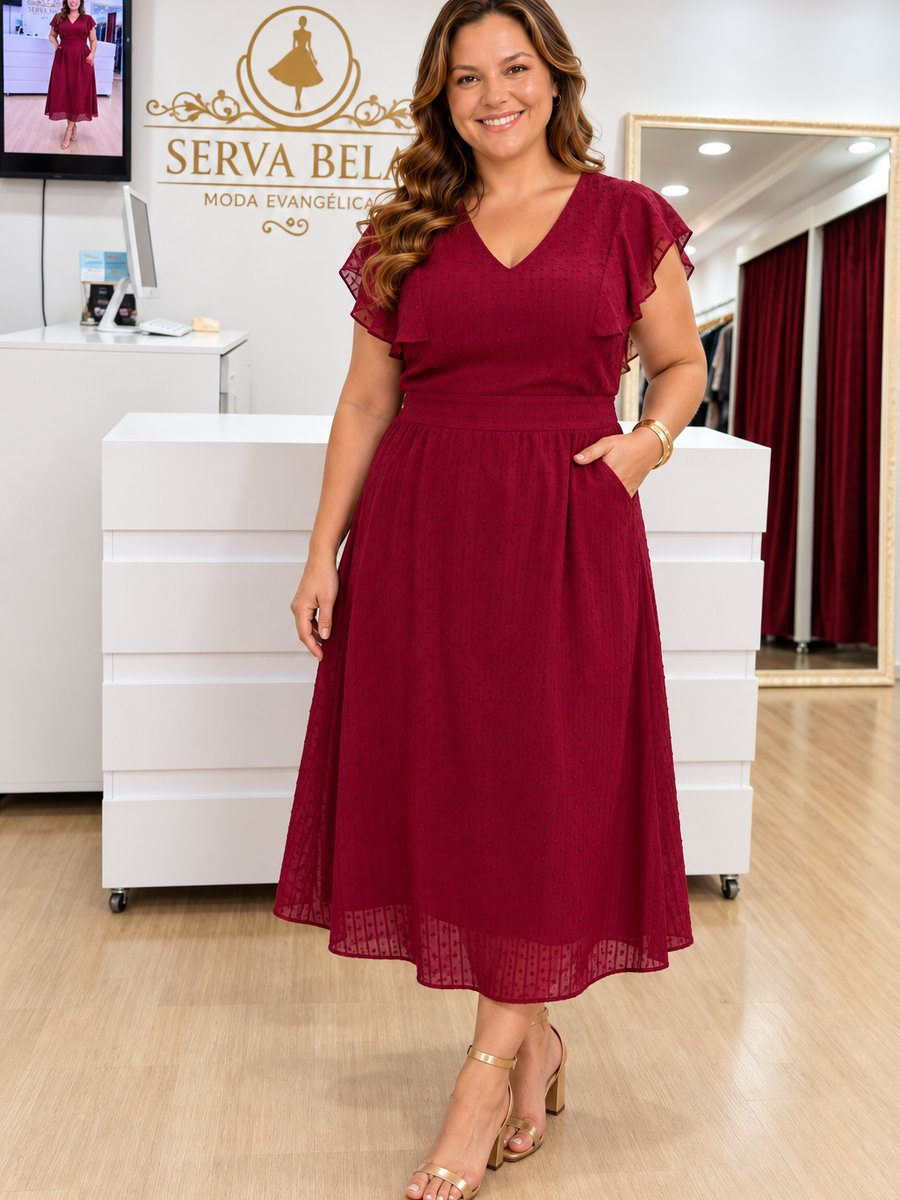
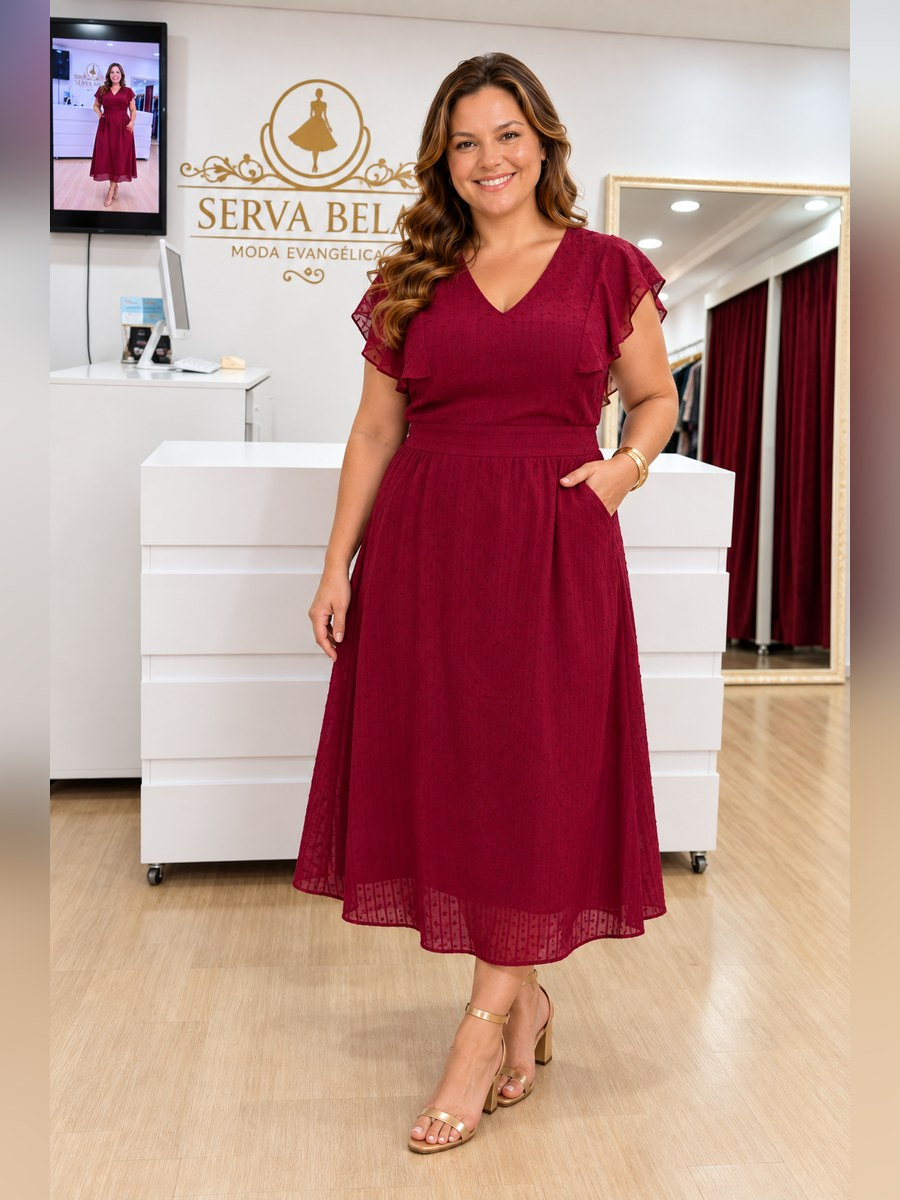
Show full uncropped photos (fit with blurred padding) for all new images
Claude-Session: https://claude.ai/code/session_01QuFj6eBhbFVfzAP6AXL4uV

diff --git a/index.html b/index.html
@@ -352,9 +352,9 @@
       </a>
     </article>
 <article class="card" id="AUR-52" data-cat="vestidos">
-      <div class="photo" data-images="img/v25a.jpg?v=1790786000|img/v25b.jpg?v=1790786000">
-          <img src="img/v25a.jpg?v=1790786000" alt="Vestido de Linho Mid" loading="lazy" onclick="openLightbox(this)">
-          <div class="thumbs"><button type="button" class="on" onclick="event.stopPropagation();swapPhoto(this,'img/v25a.jpg?v=1790786000')"></button><button type="button" class="" onclick="event.stopPropagation();swapPhoto(this,'img/v25b.jpg?v=1790786000')"></button></div>
+      <div class="photo" data-images="img/v25a.jpg?v=1790820000|img/v25b.jpg?v=1790820000">
+          <img src="img/v25a.jpg?v=1790820000" alt="Vestido de Linho Mid" loading="lazy" onclick="openLightbox(this)">
+          <div class="thumbs"><button type="button" class="on" onclick="event.stopPropagation();swapPhoto(this,'img/v25a.jpg?v=1790820000')"></button><button type="button" class="" onclick="event.stopPropagation();swapPhoto(this,'img/v25b.jpg?v=1790820000')"></button></div>
         </div>
       <div class="info">
         <div class="sku">AUR-52</div>
@@ -384,9 +384,9 @@
       </a>
     </article>
 <article class="card" id="AUR-11" data-cat="vestidos">
-      <div class="photo" data-images="img/v16a.jpg?v=1790785000|img/v16b.jpg?v=1790785000">
-          <img src="img/v16a.jpg?v=1790785000" alt="Vestido Mid Bordado" loading="lazy" onclick="openLightbox(this)">
-          <div class="thumbs"><button type="button" class="on" onclick="event.stopPropagation();swapPhoto(this,'img/v16a.jpg?v=1790785000')"></button><button type="button" class="" onclick="event.stopPropagation();swapPhoto(this,'img/v16b.jpg?v=1790785000')"></button></div>
+      <div class="photo" data-images="img/v16a.jpg?v=1790820000|img/v16b.jpg?v=1790820000">
+          <img src="img/v16a.jpg?v=1790820000" alt="Vestido Mid Bordado" loading="lazy" onclick="openLightbox(this)">
+          <div class="thumbs"><button type="button" class="on" onclick="event.stopPropagation();swapPhoto(this,'img/v16a.jpg?v=1790820000')"></button><button type="button" class="" onclick="event.stopPropagation();swapPhoto(this,'img/v16b.jpg?v=1790820000')"></button></div>
         </div>
       <div class="info">
         <div class="sku">AUR-11</div>
@@ -416,9 +416,9 @@
       </a>
     </article>
 <article class="card" id="AUR-51" data-cat="vestidos">
-      <div class="photo" data-images="img/v24a.jpg?v=1790784000|img/v24b.jpg?v=1790784000">
-          <img src="img/v24a.jpg?v=1790784000" alt="Vestido de Linho Poá" loading="lazy" onclick="openLightbox(this)">
-          <div class="thumbs"><button type="button" class="on" onclick="event.stopPropagation();swapPhoto(this,'img/v24a.jpg?v=1790784000')"></button><button type="button" class="" onclick="event.stopPropagation();swapPhoto(this,'img/v24b.jpg?v=1790784000')"></button></div>
+      <div class="photo" data-images="img/v24a.jpg?v=1790820000|img/v24b.jpg?v=1790820000">
+          <img src="img/v24a.jpg?v=1790820000" alt="Vestido de Linho Poá" loading="lazy" onclick="openLightbox(this)">
+          <div class="thumbs"><button type="button" class="on" onclick="event.stopPropagation();swapPhoto(this,'img/v24a.jpg?v=1790820000')"></button><button type="button" class="" onclick="event.stopPropagation();swapPhoto(this,'img/v24b.jpg?v=1790820000')"></button></div>
         </div>
       <div class="info">
         <div class="sku">AUR-51</div>
@@ -448,8 +448,8 @@
       </a>
     </article>
 <article class="card" id="AUR-54" data-cat="vestidos plus">
-      <div class="photo" data-images="img/v27a.jpg?v=1790810000">
-          <img src="img/v27a.jpg?v=1790810000" alt="Vestido de Algodão Mid" loading="lazy" onclick="openLightbox(this)">
+      <div class="photo" data-images="img/v27a.jpg?v=1790820000">
+          <img src="img/v27a.jpg?v=1790820000" alt="Vestido de Algodão Mid" loading="lazy" onclick="openLightbox(this)">
           
         </div>
       <div class="info">
@@ -544,9 +544,9 @@
       </a>
     </article>
 <article class="card" id="AUR-50" data-cat="vestidos">
-      <div class="photo" data-images="img/v23a.jpg?v=1790783000|img/v23b.jpg?v=1790783000">
-          <img src="img/v23a.jpg?v=1790783000" alt="Vestido de Crepe Sensorial" loading="lazy" onclick="openLightbox(this)">
-          <div class="thumbs"><button type="button" class="on" onclick="event.stopPropagation();swapPhoto(this,'img/v23a.jpg?v=1790783000')"></button><button type="button" class="" onclick="event.stopPropagation();swapPhoto(this,'img/v23b.jpg?v=1790783000')"></button></div>
+      <div class="photo" data-images="img/v23a.jpg?v=1790820000|img/v23b.jpg?v=1790820000">
+          <img src="img/v23a.jpg?v=1790820000" alt="Vestido de Crepe Sensorial" loading="lazy" onclick="openLightbox(this)">
+          <div class="thumbs"><button type="button" class="on" onclick="event.stopPropagation();swapPhoto(this,'img/v23a.jpg?v=1790820000')"></button><button type="button" class="" onclick="event.stopPropagation();swapPhoto(this,'img/v23b.jpg?v=1790820000')"></button></div>
         </div>
       <div class="info">
         <div class="sku">AUR-50</div>
@@ -576,9 +576,9 @@
       </a>
     </article>
 <article class="card" id="AUR-47" data-cat="vestidos">
-      <div class="photo" data-images="img/v22a.jpg?v=1790780000|img/v22b.jpg?v=1790780000|img/v22c.jpg?v=1790780000">
-          <img src="img/v22a.jpg?v=1790780000" alt="Vestido de Linho Poá" loading="lazy" onclick="openLightbox(this)">
-          <div class="thumbs"><button type="button" class="on" onclick="event.stopPropagation();swapPhoto(this,'img/v22a.jpg?v=1790780000')"></button><button type="button" class="" onclick="event.stopPropagation();swapPhoto(this,'img/v22b.jpg?v=1790780000')"></button><button type="button" class="" onclick="event.stopPropagation();swapPhoto(this,'img/v22c.jpg?v=1790780000')"></button></div>
+      <div class="photo" data-images="img/v22a.jpg?v=1790820000|img/v22b.jpg?v=1790820000|img/v22c.jpg?v=1790820000">
+          <img src="img/v22a.jpg?v=1790820000" alt="Vestido de Linho Poá" loading="lazy" onclick="openLightbox(this)">
+          <div class="thumbs"><button type="button" class="on" onclick="event.stopPropagation();swapPhoto(this,'img/v22a.jpg?v=1790820000')"></button><button type="button" class="" onclick="event.stopPropagation();swapPhoto(this,'img/v22b.jpg?v=1790820000')"></button><button type="button" class="" onclick="event.stopPropagation();swapPhoto(this,'img/v22c.jpg?v=1790820000')"></button></div>
         </div>
       <div class="info">
         <div class="sku">AUR-47</div>
@@ -592,8 +592,8 @@
       </a>
     </article>
 <article class="card" id="AUR-53" data-cat="vestidos">
-      <div class="photo" data-images="img/v26a.jpg?v=1790787000">
-          <img src="img/v26a.jpg?v=1790787000" alt="Vestido Mid Bordado" loading="lazy" onclick="openLightbox(this)">
+      <div class="photo" data-images="img/v26a.jpg?v=1790820000">
+          <img src="img/v26a.jpg?v=1790820000" alt="Vestido Mid Bordado" loading="lazy" onclick="openLightbox(this)">
           
         </div>
       <div class="info">
@@ -624,8 +624,8 @@
       </a>
     </article>
 <article class="card" id="AUR-55" data-cat="vestidos plus">
-      <div class="photo" data-images="img/v28a.jpg?v=1790811000">
-          <img src="img/v28a.jpg?v=1790811000" alt="Vestido de Linho c/ Lurex" loading="lazy" onclick="openLightbox(this)">
+      <div class="photo" data-images="img/v28a.jpg?v=1790820000">
+          <img src="img/v28a.jpg?v=1790820000" alt="Vestido de Linho c/ Lurex" loading="lazy" onclick="openLightbox(this)">
           
         </div>
       <div class="info">
@@ -672,9 +672,9 @@
       </a>
     </article>
 <article class="card" id="AUR-42" data-cat="conjuntos">
-      <div class="photo" data-images="img/c21a.jpg?v=1790732000|img/c21b.jpg?v=1790732000">
-          <img src="img/c21a.jpg?v=1790732000" alt="Conjunto de Linho" loading="lazy" onclick="openLightbox(this)">
-          <div class="thumbs"><button type="button" class="on" onclick="event.stopPropagation();swapPhoto(this,'img/c21a.jpg?v=1790732000')"></button><button type="button" class="" onclick="event.stopPropagation();swapPhoto(this,'img/c21b.jpg?v=1790732000')"></button></div>
+      <div class="photo" data-images="img/c21a.jpg?v=1790820000|img/c21b.jpg?v=1790820000">
+          <img src="img/c21a.jpg?v=1790820000" alt="Conjunto de Linho" loading="lazy" onclick="openLightbox(this)">
+          <div class="thumbs"><button type="button" class="on" onclick="event.stopPropagation();swapPhoto(this,'img/c21a.jpg?v=1790820000')"></button><button type="button" class="" onclick="event.stopPropagation();swapPhoto(this,'img/c21b.jpg?v=1790820000')"></button></div>
         </div>
       <div class="info">
         <div class="sku">AUR-42</div>
@@ -688,8 +688,8 @@
       </a>
     </article>
 <article class="card" id="AUR-24" data-cat="conjuntos">
-      <div class="photo" data-images="img/c19a.jpg?v=1790730000">
-          <img src="img/c19a.jpg?v=1790730000" alt="Conjunto de Crepe" loading="lazy" onclick="openLightbox(this)">
+      <div class="photo" data-images="img/c19a.jpg?v=1790820000">
+          <img src="img/c19a.jpg?v=1790820000" alt="Conjunto de Crepe" loading="lazy" onclick="openLightbox(this)">
           
         </div>
       <div class="info">
@@ -704,8 +704,8 @@
       </a>
     </article>
 <article class="card" id="AUR-40" data-cat="conjuntos plus">
-      <div class="photo" data-images="img/c02a.jpg?v=1790790000">
-          <img src="img/c02a.jpg?v=1790790000" alt="Conjunto de Crepe" loading="lazy" onclick="openLightbox(this)">
+      <div class="photo" data-images="img/c02a.jpg?v=1790820000">
+          <img src="img/c02a.jpg?v=1790820000" alt="Conjunto de Crepe" loading="lazy" onclick="openLightbox(this)">
           
         </div>
       <div class="info">
@@ -736,9 +736,9 @@
       </a>
     </article>
 <article class="card" id="AUR-41" data-cat="conjuntos">
-      <div class="photo" data-images="img/c20a.jpg?v=1790731000|img/c20b.jpg?v=1790731000">
-          <img src="img/c20a.jpg?v=1790731000" alt="Conjunto de Crepe Sensorial" loading="lazy" onclick="openLightbox(this)">
-          <div class="thumbs"><button type="button" class="on" onclick="event.stopPropagation();swapPhoto(this,'img/c20a.jpg?v=1790731000')"></button><button type="button" class="" onclick="event.stopPropagation();swapPhoto(this,'img/c20b.jpg?v=1790731000')"></button></div>
+      <div class="photo" data-images="img/c20a.jpg?v=1790820000|img/c20b.jpg?v=1790820000">
+          <img src="img/c20a.jpg?v=1790820000" alt="Conjunto de Crepe Sensorial" loading="lazy" onclick="openLightbox(this)">
+          <div class="thumbs"><button type="button" class="on" onclick="event.stopPropagation();swapPhoto(this,'img/c20a.jpg?v=1790820000')"></button><button type="button" class="" onclick="event.stopPropagation();swapPhoto(this,'img/c20b.jpg?v=1790820000')"></button></div>
         </div>
       <div class="info">
         <div class="sku">AUR-41</div>
@@ -752,8 +752,8 @@
       </a>
     </article>
 <article class="card" id="AUR-44" data-cat="conjuntos">
-      <div class="photo" data-images="img/c23a.jpg?v=1790734000">
-          <img src="img/c23a.jpg?v=1790734000" alt="Conjunto de Linho" loading="lazy" onclick="openLightbox(this)">
+      <div class="photo" data-images="img/c23a.jpg?v=1790820000">
+          <img src="img/c23a.jpg?v=1790820000" alt="Conjunto de Linho" loading="lazy" onclick="openLightbox(this)">
           
         </div>
       <div class="info">
@@ -784,8 +784,8 @@
       </a>
     </article>
 <article class="card" id="AUR-39" data-cat="conjuntos plus">
-      <div class="photo" data-images="img/c18a.jpg?v=1790730000">
-          <img src="img/c18a.jpg?v=1790730000" alt="Conjunto de Crepe Sensorial" loading="lazy" onclick="openLightbox(this)">
+      <div class="photo" data-images="img/c18a.jpg?v=1790820000">
+          <img src="img/c18a.jpg?v=1790820000" alt="Conjunto de Crepe Sensorial" loading="lazy" onclick="openLightbox(this)">
           
         </div>
       <div class="info">
@@ -800,8 +800,8 @@
       </a>
     </article>
 <article class="card" id="AUR-43" data-cat="conjuntos plus">
-      <div class="photo" data-images="img/c22a.jpg?v=1790733000">
-          <img src="img/c22a.jpg?v=1790733000" alt="Conjunto de Crepe" loading="lazy" onclick="openLightbox(this)">
+      <div class="photo" data-images="img/c22a.jpg?v=1790820000">
+          <img src="img/c22a.jpg?v=1790820000" alt="Conjunto de Crepe" loading="lazy" onclick="openLightbox(this)">
           
         </div>
       <div class="info">
@@ -928,9 +928,9 @@
       </a>
     </article>
 <article class="card" id="AUR-48" data-cat="conjuntos">
-      <div class="photo" data-images="img/c26a.jpg?v=1790781000|img/c26b.jpg?v=1790781000">
-          <img src="img/c26a.jpg?v=1790781000" alt="Conjunto de Crepe Sensorial" loading="lazy" onclick="openLightbox(this)">
-          <div class="thumbs"><button type="button" class="on" onclick="event.stopPropagation();swapPhoto(this,'img/c26a.jpg?v=1790781000')"></button><button type="button" class="" onclick="event.stopPropagation();swapPhoto(this,'img/c26b.jpg?v=1790781000')"></button></div>
+      <div class="photo" data-images="img/c26a.jpg?v=1790820000|img/c26b.jpg?v=1790820000">
+          <img src="img/c26a.jpg?v=1790820000" alt="Conjunto de Crepe Sensorial" loading="lazy" onclick="openLightbox(this)">
+          <div class="thumbs"><button type="button" class="on" onclick="event.stopPropagation();swapPhoto(this,'img/c26a.jpg?v=1790820000')"></button><button type="button" class="" onclick="event.stopPropagation();swapPhoto(this,'img/c26b.jpg?v=1790820000')"></button></div>
         </div>
       <div class="info">
         <div class="sku">AUR-48</div>
@@ -992,8 +992,8 @@
       </a>
     </article>
 <article class="card" id="AUR-45" data-cat="conjuntos">
-      <div class="photo" data-images="img/c25a.jpg?v=1790770000">
-          <img src="img/c25a.jpg?v=1790770000" alt="Conjunto de Linho" loading="lazy" onclick="openLightbox(this)">
+      <div class="photo" data-images="img/c25a.jpg?v=1790820000">
+          <img src="img/c25a.jpg?v=1790820000" alt="Conjunto de Linho" loading="lazy" onclick="openLightbox(this)">
           
         </div>
       <div class="info">
@@ -1008,8 +1008,8 @@
       </a>
     </article>
 <article class="card" id="AUR-46" data-cat="conjuntos">
-      <div class="photo" data-images="img/c24a.jpg?v=1790770000">
-          <img src="img/c24a.jpg?v=1790770000" alt="Conjunto de Linho" loading="lazy" onclick="openLightbox(this)">
+      <div class="photo" data-images="img/c24a.jpg?v=1790820000">
+          <img src="img/c24a.jpg?v=1790820000" alt="Conjunto de Linho" loading="lazy" onclick="openLightbox(this)">
           
         </div>
       <div class="info">
@@ -1024,9 +1024,9 @@
       </a>
     </article>
 <article class="card" id="AUR-49" data-cat="conjuntos">
-      <div class="photo" data-images="img/c27a.jpg?v=1790782000|img/c27b.jpg?v=1790782000">
-          <img src="img/c27a.jpg?v=1790782000" alt="Conjunto de Linho Floral c/ Elastano" loading="lazy" onclick="openLightbox(this)">
-          <div class="thumbs"><button type="button" class="on" onclick="event.stopPropagation();swapPhoto(this,'img/c27a.jpg?v=1790782000')"></button><button type="button" class="" onclick="event.stopPropagation();swapPhoto(this,'img/c27b.jpg?v=1790782000')"></button></div>
+      <div class="photo" data-images="img/c27a.jpg?v=1790820000|img/c27b.jpg?v=1790820000">
+          <img src="img/c27a.jpg?v=1790820000" alt="Conjunto de Linho Floral c/ Elastano" loading="lazy" onclick="openLightbox(this)">
+          <div class="thumbs"><button type="button" class="on" onclick="event.stopPropagation();swapPhoto(this,'img/c27a.jpg?v=1790820000')"></button><button type="button" class="" onclick="event.stopPropagation();swapPhoto(this,'img/c27b.jpg?v=1790820000')"></button></div>
         </div>
       <div class="info">
         <div class="sku">AUR-49</div>
